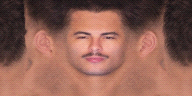
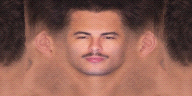
La chevelure descend enfin au-dessus et derriere l'oreille
L'utilisateur a marque en rouge, sur deux captures, la zone qui sortait
couleur peau alors qu'elle devrait etre couverte de cheveux : au-dessus et
derriere l'oreille, des deux cotes. La cause est dans les planches : le
depliage etire cette zone, et la coupe degradee y est presque rase, si bien
qu'elle passe pour du crane nu.

On y descend donc la bande de chevelure, colonne par colonne, en l'ETIRANT
depuis le haut — c'est de la vraie chevelure qu'on prolonge, pas un aplat
invente. La limite visee depend de l'angle et ne monte JAMAIS : rien de face,
ou la racine vient de la photo ; juste au-dessus de l'oreille sur le cote,
pour ne pas la recouvrir ; jusqu'a la base du crane dans la nuque. Cent
quatre colonnes sur cinq cent soixante-seize ont ete prolongees.

L'outil qui fabrique l'atlas est desormais un fichier a part,
pictures/planches/refaire-atlas.html — hors du depot, comme les planches. Il
faut le SERVIR depuis le serveur de gestion pour qu'il ait le droit d'ecrire,
l'ecriture exigeant la meme origine. Mieux qu'une recette en commentaire : le
code est la, executable, avec ses huit nombres de calibration.

60 triangles, 165 images/s, console vide, les dix-huit masques de photos
verifies un par un et tous inchanges.

Changed region(s): [[0.7812, 0.0938, 0.875, 0.4688], [0.125, 0.0625, 0.25, 0.4688]]

diff --git a/index.html b/index.html
@@ -4447,9 +4447,11 @@ const model3d = (() => {
      n'est calculé à l'affichage.
 
      ---- comment la refabriquer, si les photos changent ----
-     La recette a été exécutée une fois ; elle vit désormais dans l'historique
-     (commit « Deux eclats, un par boule, et les deux planches enfin d'accord »)
-     et tient en cinq temps :
+     L'outil est dans `pictures/planches/refaire-atlas.html` — hors du dépôt,
+     comme les planches. Il faut le SERVIR depuis le serveur de gestion
+     (`admin-server.ps1 -Port 8791`) pour qu'il ait le droit d'écrire le
+     fichier, l'écriture exigeant la même origine. La recette tient en six
+     temps :
        1. deux planches cylindriques cousues, décrites chacune par quatre
           nombres — u0 et ku (où tombe le milieu du visage, et de combien u
           avance par radian : ce sont les OREILLES qui le donnent, elles sont à
@@ -4466,7 +4468,17 @@ const model3d = (() => {
        4. composition avec fondu sur les bords ET à l'approche du vide, puis
           comblement par dilatation bouclée en u, puis lissage des seules
           jointures ;
-       5. réduction à 192 × 96 avec lissage, et quantification en 15 bits avec
+       5. PROLONGEMENT DE LA CHEVELURE sur les côtés et l'arrière : les
+          planches montrent de la peau au-dessus et derrière l'oreille, là où
+          une vraie tête a des cheveux courts — le dépliage étire cette zone et
+          la coupe dégradée y est presque rase, si bien qu'elle passe pour du
+          crâne nu. On y descend la bande de chevelure, colonne par colonne, en
+          l'ÉTIRANT depuis le haut : c'est de la vraie chevelure qu'on
+          prolonge, pas un aplat. La limite visée dépend de l'angle et ne monte
+          jamais — rien de face (la racine vient de la photo), juste au-dessus
+          de l'oreille sur le côté pour ne pas la recouvrir, et jusqu'à la base
+          du crâne dans la nuque ;
+       6. réduction à 192 × 96 avec lissage, et quantification en 15 bits avec
           trame ordonnée 4 × 4 à 45 % d'amplitude. */
   const PLANCHE_Y = { haut: 0.525, bas: -0.525 }; // ce que l'atlas couvre en hauteur
   const PS1_W = 192, PS1_H = 96;        // l'atlas, et tout ce que le site publie de ce visage
